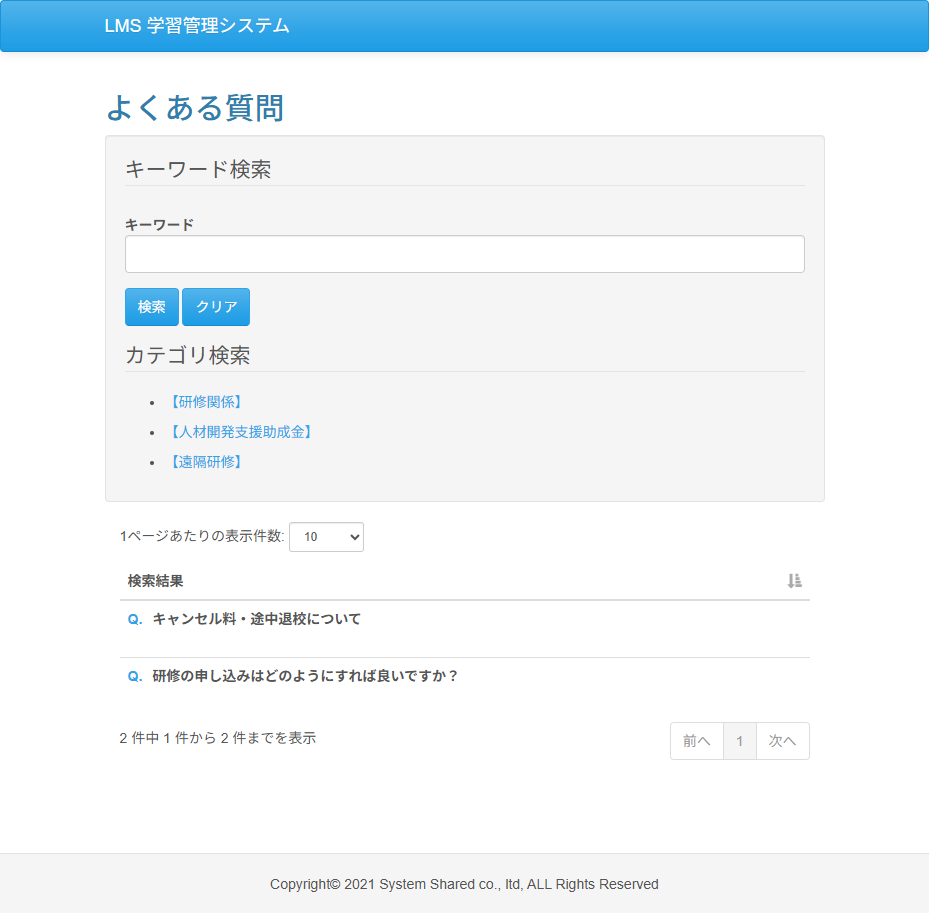
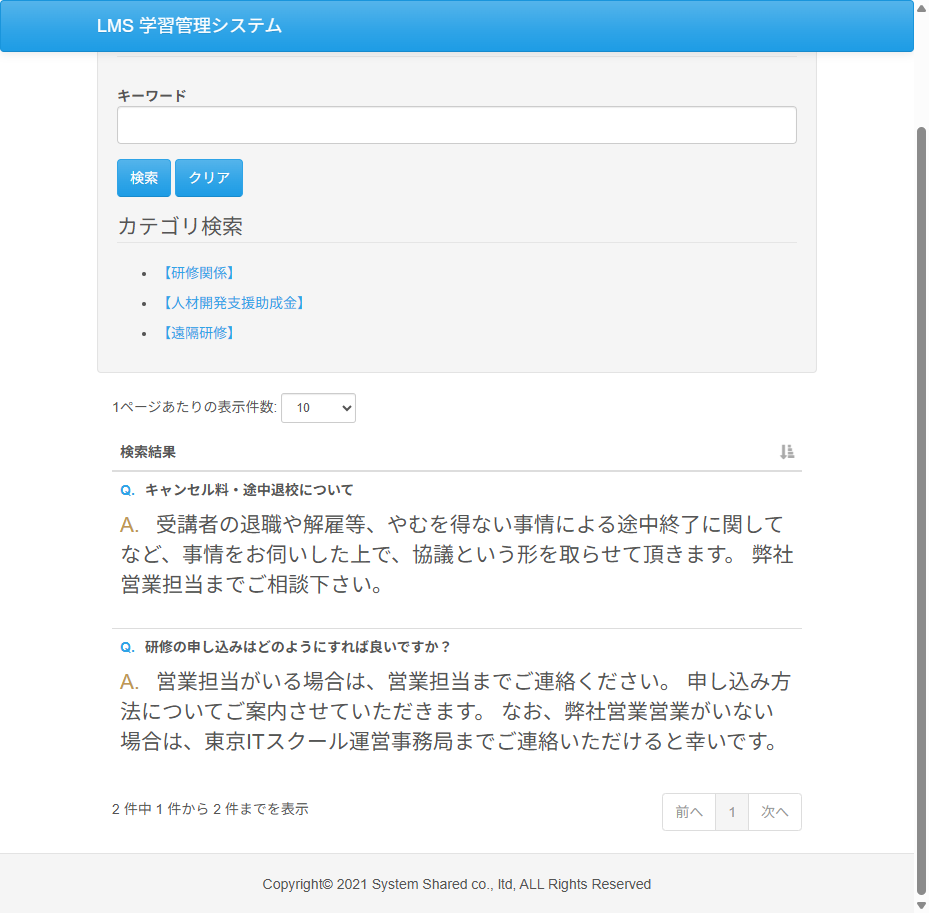
fix:Case06.java
想定通りの結果になるように修正

diff --git a/test_code_creation_name/src/test/java/jp/co/sss/lms/ct/f02_faq/Case06.java b/test_code_creation_name/src/test/java/jp/co/sss/lms/ct/f02_faq/Case06.java
@@ -160,10 +160,19 @@ public class Case06 {
 	void test06() {
 
 		//質問の要素の取得とクリック
+		List<WebElement> faqResults = webDriver.findElements(By.className("sorting_1"));
+		for (WebElement elm : faqResults) {
+			elm.click();
+		}
+
+		//クリックして表示された文言が想定通りか判別
 		List<WebElement> elms = webDriver.findElements(By.className("fs18"));
 		for (WebElement elm : elms) {
 			assertTrue(elm.getText().contains("A."));
 		}
+
+		//展開した要素の下部までエビデンスとして取得できる用にスクロール
+		scrollBy("200");
 
 		//エビデンスを取得
 		getEvidence(new Object() {
